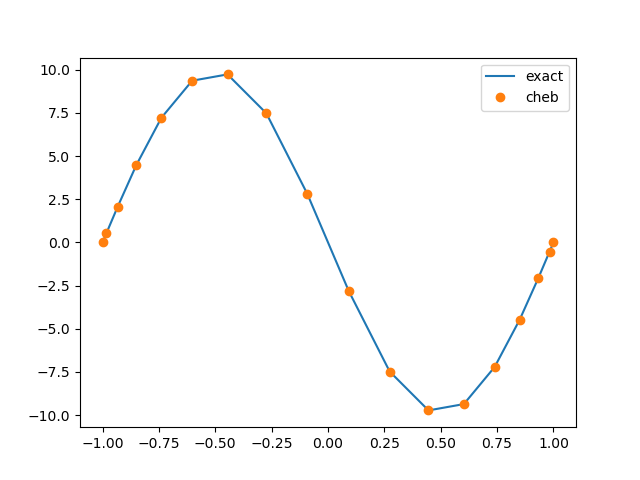
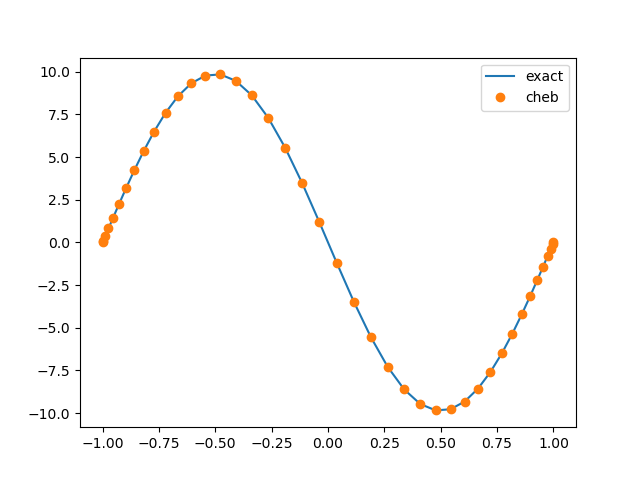
Heat equation via Chebyshev collocation and associated movie in python

diff --git a/heat_equation_chebyshev/heat_eq.py b/heat_equation_chebyshev/heat_eq.py
@@ -1,0 +1,62 @@
+from cheb_trefethen import *
+from numpy import pi, cos, sin, exp
+from matplotlib import animation
+
+import numpy as np
+import matplotlib.pyplot as plt
+
+def dirichilet_bc(A, B):
+    A[0,:] = 0.0
+    A[0,0] = 1.0
+    A[-1,:] = 0.0
+    A[-1,-1] = 1.0
+    B[0] = 0.0
+    B[-1] = 0.0
+
+def write_real(x, u, n):
+    data = np.array([x.real, u.real])
+    data = data.T
+    with open("data/solution"+str(n)+".dat", "w") as out_file:
+        np.savetxt(out_file, data, delimiter=",")
+        out_file.close()
+        
+
+
+np.set_printoptions(suppress=True)
+np.set_printoptions(precision=6)
+
+N = 63
+dt = 0.001
+D, x = cheb(N)
+u0 = exp(-25*x*x)  # Initial condition
+uinit = u0
+rhs = u0
+write_real(x, u0, 0)    
+
+for i in range(1,100):
+    A = 2*np.eye(N+1) - dt*np.matmul(D,D)
+    B = 2*u0 + dt*np.dot(np.matmul(D,D),u0)
+    dirichilet_bc(A, B)
+    u1 = np.linalg.solve(A, B)
+    u0 = u1
+    write_real(x, u1, i)    
+
+#Plot
+fig = plt.figure()
+ax = plt.axes(xlim=(-1, 1), ylim=(-0.1, 1))
+line, = ax.plot([], [], lw=2)
+
+def animate(j):
+    x1, u1 = np.loadtxt(
+    "data\solution"+str(j)+".dat", delimiter=",", unpack=True)
+    line.set_data(x1, u1)
+    return line,
+
+anim = animation.FuncAnimation(fig, animate, frames=i, interval=20, blit=True)
+anim.save('diffusion.mp4', fps=60, extra_args=['-vcodec', 'libx264'])
+
+plt.show()
+# x1, u1 = np.loadtxt(
+#     "data\solution"+str(i)+".dat", delimiter=",", unpack=True)
+# plt.plot(x1, u1)
+# plt.show()

diff --git a/heat_equation_chebyshev/animation_examples/animation_example2.py b/heat_equation_chebyshev/animation_examples/animation_example2.py
@@ -1,0 +1,33 @@
+import numpy as np
+from matplotlib import pyplot as plt
+from matplotlib import animation
+
+# First set up the figure, the axis, and the plot element we want to animate
+fig = plt.figure()
+ax = plt.axes(xlim=(0, 2), ylim=(-2, 2))
+line, = ax.plot([], [], lw=2)
+
+# initialization function: plot the background of each frame
+# def init():
+#     line.set_data([], [])
+#     return line,
+
+# animation function.  This is called sequentially
+x = np.linspace(0, 2, 1000)
+def animate(i):
+    y = np.sin(2 * np.pi * (x - 0.01 * i))
+    line.set_data(x, y)
+    return line,
+
+# call the animator.  blit=True means only re-draw the parts that have changed.
+anim = animation.FuncAnimation(fig, animate, #init_func=init,
+                               frames=200, interval=20, blit=True)
+
+# save the animation as an mp4.  This requires ffmpeg or mencoder to be
+# installed.  The extra_args ensure that the x264 codec is used, so that
+# the video can be embedded in html5.  You may need to adjust this for
+# your system: for more information, see
+# http://matplotlib.sourceforge.net/api/animation_api.html
+anim.save('basic_animation.mp4', fps=120, extra_args=['-vcodec', 'libx264'])
+
+plt.show()

diff --git a/heat_equation_chebyshev/animation_examples/animation_example.py b/heat_equation_chebyshev/animation_examples/animation_example.py
@@ -1,0 +1,26 @@
+
+import numpy as np
+import matplotlib
+matplotlib.use("Agg")
+import matplotlib.pyplot as plt
+import matplotlib.animation as manimation
+
+FFMpegWriter = manimation.writers['ffmpeg']
+metadata = dict(title='Movie Test', artist='Matplotlib',
+                comment='Movie support!')
+writer = FFMpegWriter(fps=60, metadata=metadata)
+
+fig = plt.figure()
+l, = plt.plot([], [], 'k-o')
+
+plt.xlim(-5, 5)
+plt.ylim(-5, 5)
+
+x0, y0 = 0, 0
+
+with writer.saving(fig, "writer_test.mp4", 100):
+    for i in range(100):
+        x0 += 0.1 * np.random.randn()
+        y0 += 0.1 * np.random.randn()
+        l.set_data(x0, y0)
+        writer.grab_frame()

diff --git a/heat_equation_chebyshev/test_cheb_derivative.py b/heat_equation_chebyshev/test_cheb_derivative.py
@@ -8,7 +8,7 @@ import matplotlib.pyplot as plt
 np.set_printoptions(suppress=True)
 np.set_printoptions(precision=6)
 
-N = 17
+N = 41
 D, x = cheb(N)
 print ("D = \n ", D)
 print ("x = \n ", x)
